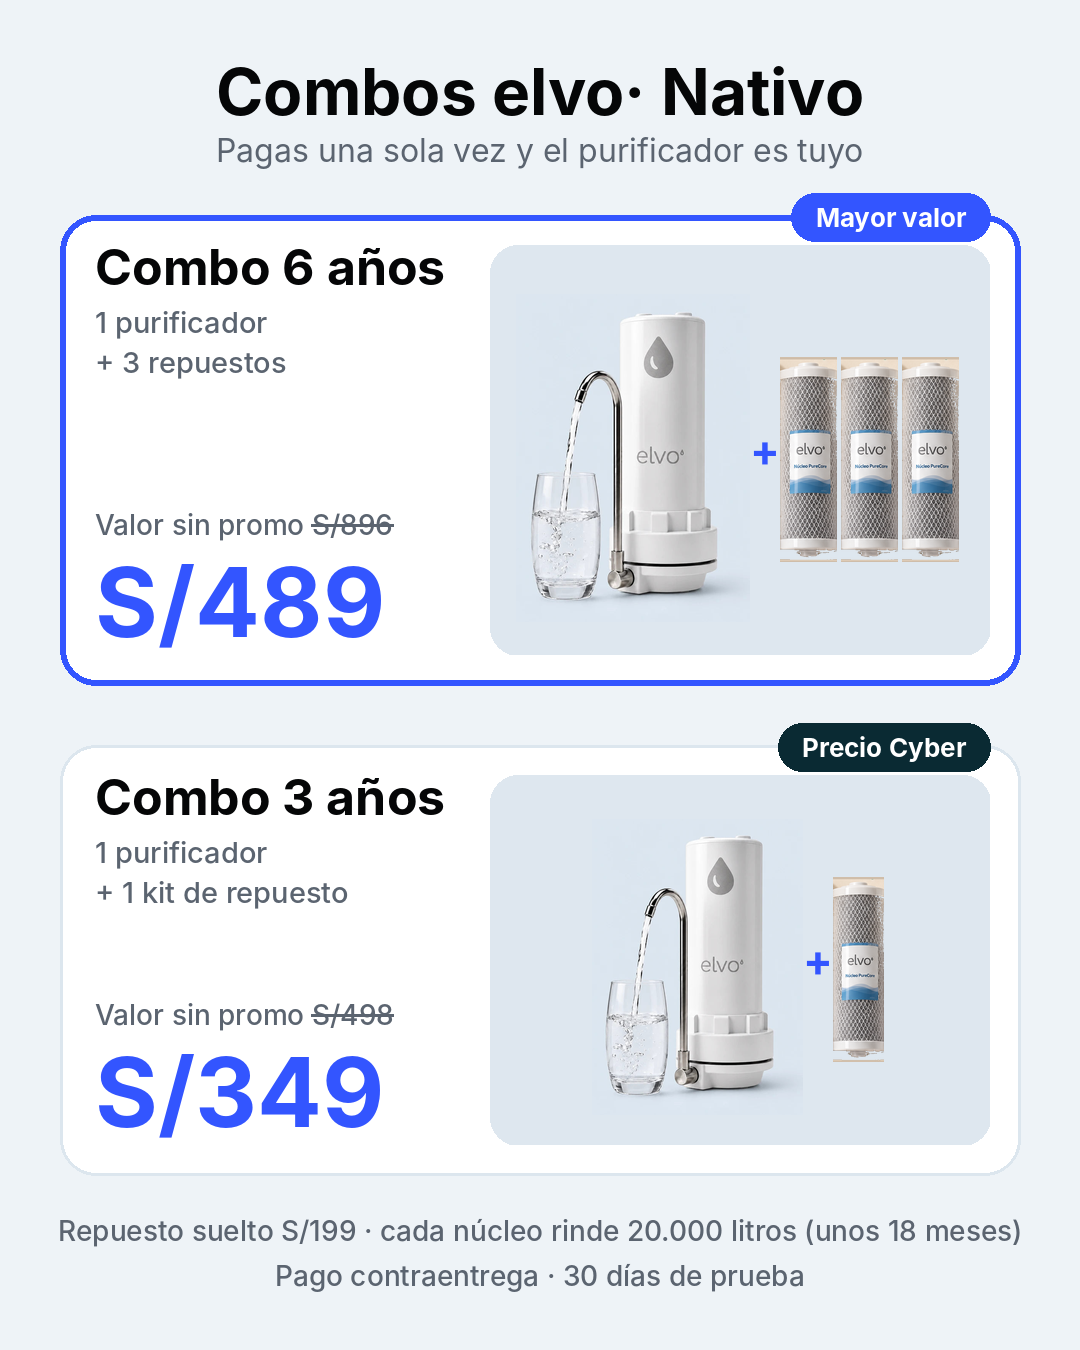
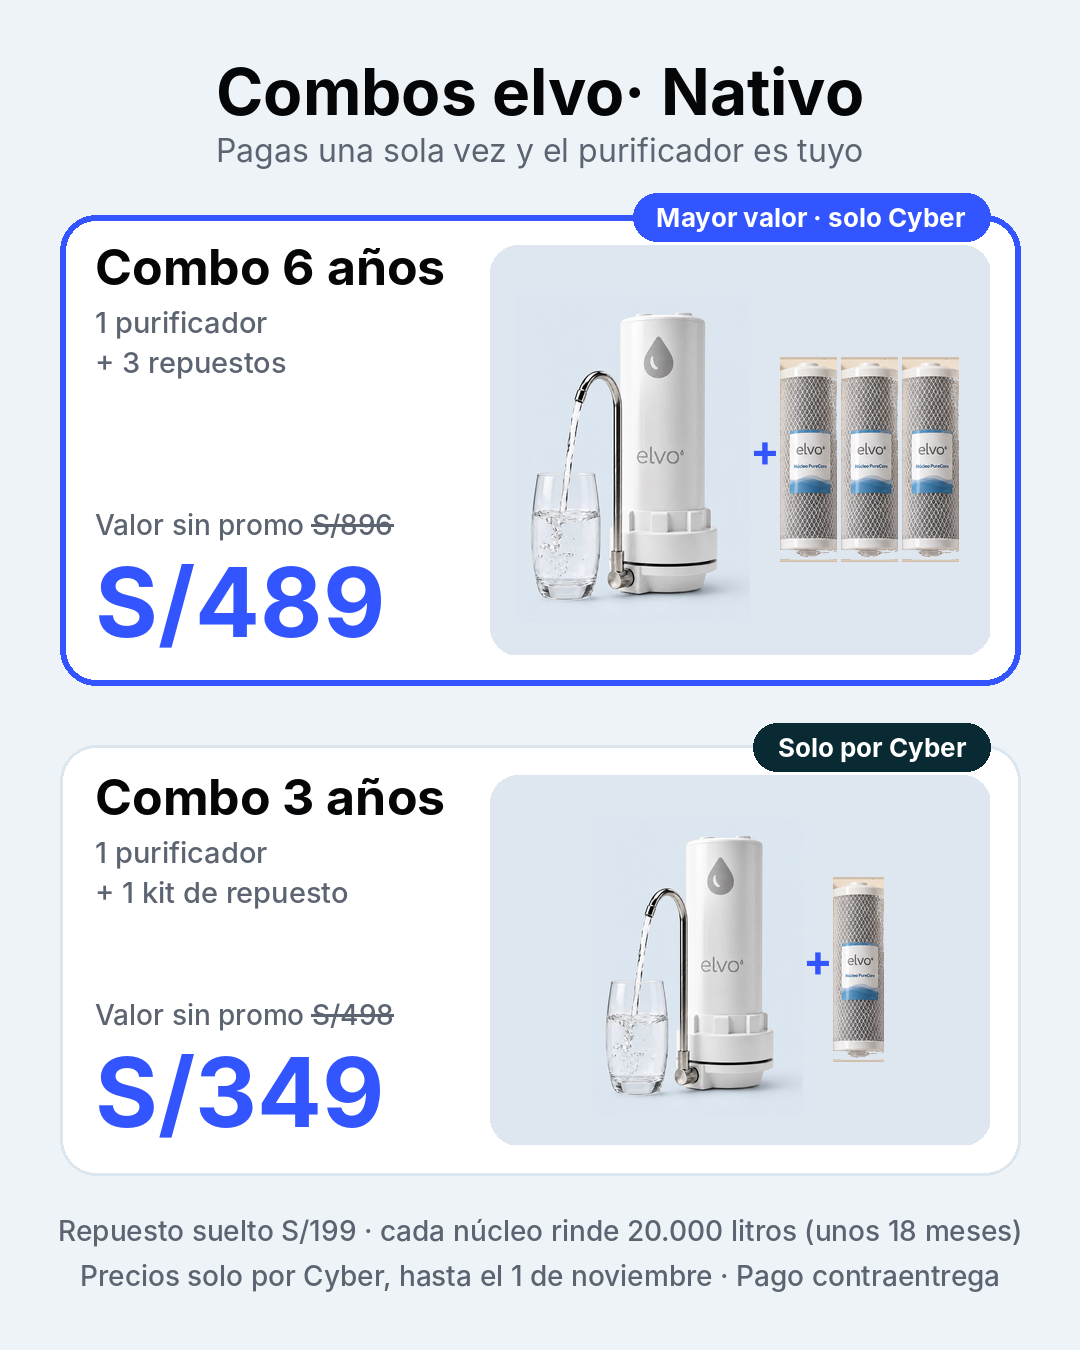
Sofía v2: promo and repuestos only for Cyber
Claude-Session: https://claude.ai/code/session_017NiUFQc9Av1e7ZJ2CJbVKX

Changed region(s): [[0.0611, 0.9333, 0.9167, 0.9644], [0.5806, 0.1244, 0.8861, 0.1867], [0.7028, 0.5289, 0.825, 0.5911]]

diff --git a/brands/elvo/yavendio/build_combos.py b/brands/elvo/yavendio/build_combos.py
@@ -45,9 +45,9 @@ def card(y,h,badge,title,line,price,nrep,hl,valor=''):
     for i in range(nrep):
         panel.paste(n,(x+i*(n.width+4),int((ph-nh)/2)+10),n)
     im.paste(panel,(px0,py0),rmask((pw,ph),28))
-card(215,470,'Mayor valor','Combo 6 años','1 purificador|+ 3 repuestos','S/489',3,True,'S/896')
-card(745,430,'Precio Cyber','Combo 3 años','1 purificador|+ 1 kit de repuesto','S/349',1,False,'S/498')
+card(215,470,'Mayor valor · solo Cyber','Combo 6 años','1 purificador|+ 3 repuestos','S/489',3,True,'S/896')
+card(745,430,'Solo por Cyber','Combo 3 años','1 purificador|+ 1 kit de repuesto','S/349',1,False,'S/498')
 d.text((W/2,1230),'Repuesto suelto S/199 · cada núcleo rinde 20.000 litros (unos 18 meses)',font=f('Medium',28),fill=GRAY,anchor='mm')
-d.text((W/2,1275),'Pago contraentrega · 30 días de prueba',font=f('Medium',28),fill=GRAY,anchor='mm')
+d.text((W/2,1275),'Precios solo por Cyber, hasta el 1 de noviembre · Pago contraentrega',font=f('Medium',28),fill=GRAY,anchor='mm')
 im.save('imagenes/combos-elvo-nativo.jpg',quality=92); im.save('imagenes/combos-elvo-nativo.png')
 print('ok')
